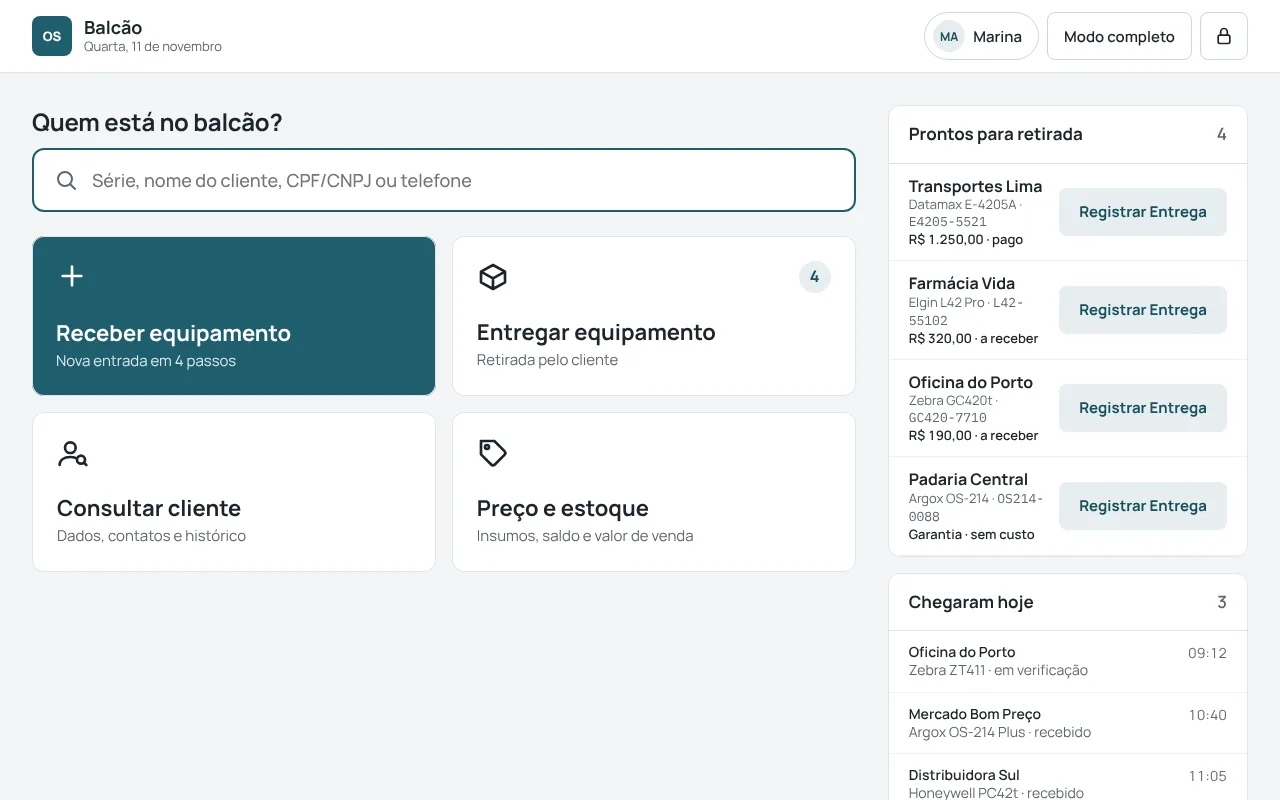
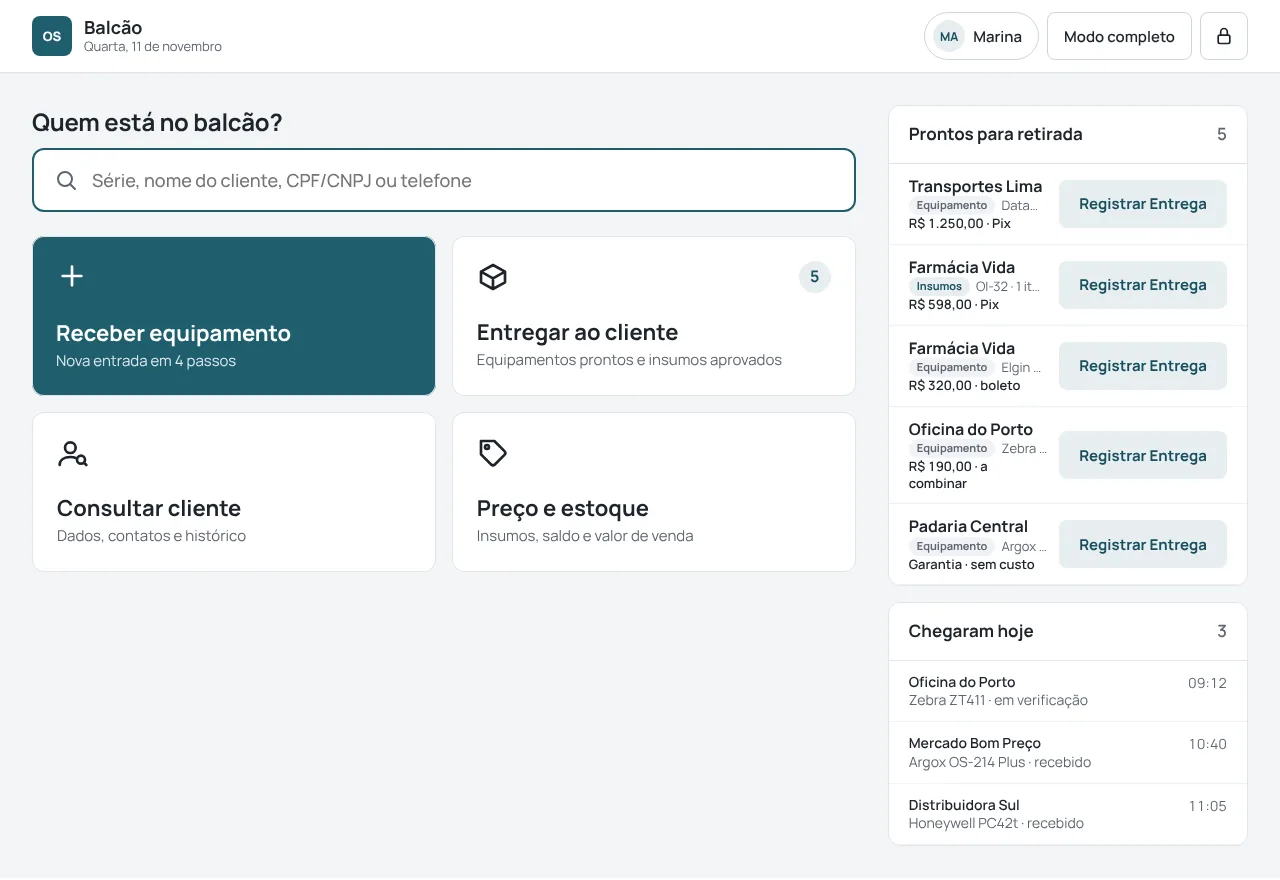
docs: entrega de venda de insumos no Balcão
O bloco "Entregar equipamento" vira "Entregar ao cliente" e a fila de
retirada inclui vendas de insumos aprovadas. Folha do canvas exportada,
decisão 23 ampliada e fatia V.7 no plano.

Claude-Session: https://claude.ai/code/session_01DaV7KuehXbtNNevy8Km2Vh

diff --git a/docs/redesign/PLANO_IMPLEMENTACAO.md b/docs/redesign/PLANO_IMPLEMENTACAO.md
@@ -259,6 +259,18 @@ Referência: `referencia/telas/10-vendas/`, decisão 23 do `ALVO.md` e `docs/ORC
   O PIN continua com `ensureSensitiveAccess`: não acrescente campo de PIN nos modais.
 - **V.6 Celular.** Abaixo de `md`, a lista vira cartões e o orçamento ganha a ação fixa no rodapé. Alvos de 44px ou mais.
 
+- **V.7 Balcão: entregar venda de insumos** (`src/pages/Balcao.tsx`). Referência: `referencia/telas/05-balcao/01-balcao-inicio-*` e `04-entregar-ao-cliente-*`.
+  - O bloco "Entregar equipamento" vira "Entregar ao cliente", e o contador soma equipamentos prontos e vendas aprovadas.
+  - A tela de retirada (`view === "equipment"`) ganha:
+    - os filtros Tudo, Equipamentos e Insumos;
+    - a busca também por "OI-n";
+    - as vendas com situação Aprovado, com a etiqueta "Insumos".
+  - Venda Enviada aparece na busca sem botão: "Ainda não dá para entregar: o cliente não aprovou este orçamento."
+  - O detalhe da venda mostra o que o cliente leva, o total, a forma de pagamento e o aviso de que o app não registra pagamento recebido.
+  - "Registrar entrega" abre a confirmação (M, botões de 48px) e chama o mesmo comando de marcar entregue da Vendas de insumos, depois de `ensureSensitiveAccess` com `FINANCIAL_ACTIONS`. A permissão continua no backend; perfil sem ela recebe a recusa explicada.
+  - A fila "Prontos para retirada" da tela inicial mostra a forma de pagamento, não "pago" ou "a receber", que o app não sabe.
+  - Pronto com lint, testes e E2E (o `balcao-touch.spec.ts` continua passando).
+
 Antes da V.3, pergunte ao dono do produto os três pendentes da decisão 23.
 
 **Fase 9: Portal do Cliente** (`src/public-status/`, build separado com `npm run build:public-status`).

diff --git a/docs/redesign/ALVO.md b/docs/redesign/ALVO.md
@@ -104,6 +104,12 @@ Cada linha é algo que o dono pediu ou aprovou. Onde diz **rejeitado**, foi test
     - **Validade só para Rascunho e Enviado.** Nas outras situações, a coluna mostra a data do que aconteceu ("aprovado 12/11 · Pix", "entregue 10/11").
     - **Orçamento, criar e editar são páginas** (`/vendas/:id`, `/vendas/novo`, `/vendas/:id/editar`), não janela.
     - **Falta de estoque aparece antes de aprovar:** na tabela ("6 · falta 4") e num aviso com "Dar entrada no estoque" e "Editar quantidades". A recusa do backend usa o texto dele.
+    - **No Balcão, a venda aprovada se entrega como um equipamento pronto.** O bloco vira "Entregar ao cliente" e a fila "Prontos para retirada" mistura os dois, com etiqueta.
+      - O balcão mostra o que o cliente leva, o total e a forma de pagamento.
+      - Avisa que o app não sabe se foi pago.
+      - Confirma e usa o mesmo "marcar entregue", com PIN e "Ações financeiras".
+      - Venda ainda não aprovada aparece na busca, sem botão e com o motivo.
+      - Sem a permissão, o backend recusa e a tela explica.
     - **Não desenhe como se existisse:**
       - quem fez cada passo e por qual canal (só existem as datas; quem criou existe em `criado_por_profile_id`);
       - pagamento recebido;

diff --git a/docs/redesign/referencia/README.md b/docs/redesign/referencia/README.md
@@ -238,6 +238,14 @@ Tema escuro: [02-balcao-nova-entrada-escuro.webp](telas/05-balcao/02-balcao-nova
 
 Tema escuro: [03-modais-balcao-escuro.webp](telas/05-balcao/03-modais-balcao-escuro.webp)
 
+### Entregar ao cliente
+
+O bloco "Entregar equipamento" vira "Entregar ao cliente": equipamentos prontos e vendas de insumos aprovadas na mesma fila, com etiqueta Equipamento ou Insumos. Entregar uma venda chama o mesmo "marcar entregue" de Vendas de insumos, com o PIN e a permissão de hoje.
+
+![entregar ao cliente, tema claro](telas/05-balcao/04-entregar-ao-cliente-claro.webp)
+
+Tema escuro: [04-entregar-ao-cliente-escuro.webp](telas/05-balcao/04-entregar-ao-cliente-escuro.webp)
+
 ## Estoque e serviços
 
 ### Insumos estoque
